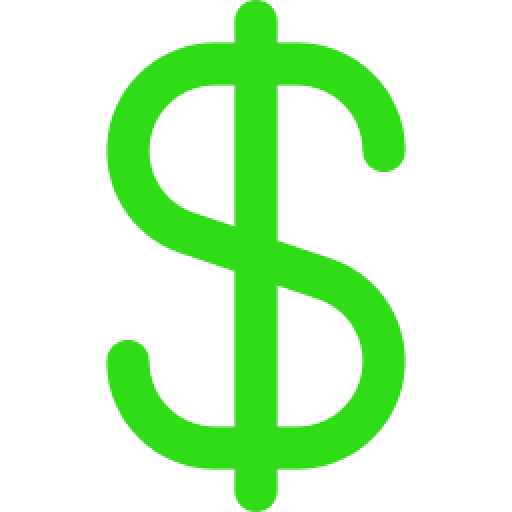
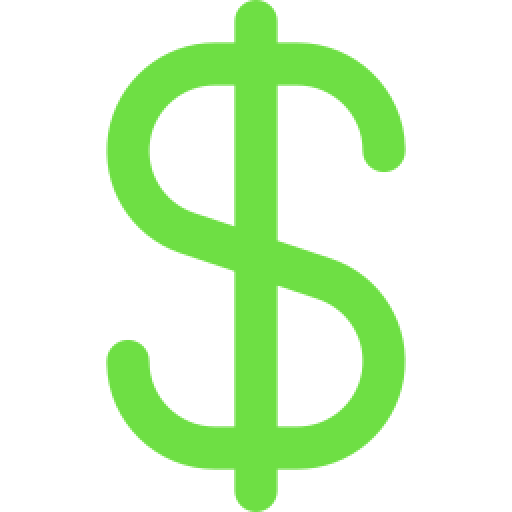
Agrego iconos, correcciones y nav fixed

Changed region(s): [[0.1875, 0.0, 0.8125, 1.0]]

diff --git a/empresa.html b/empresa.html
@@ -5,8 +5,7 @@
     <meta http-equiv="X-UA-Compatible" content="IE=edge">
     <meta name="viewport" content="width=device-width, initial-scale=1.0">
     <link rel="preconnect" href="https://fonts.googleapis.com">
-    <link rel="preconnect" href="https://fonts.gstatic.com" crossorigin>
-    <link href="https://fonts.googleapis.com/css2?family=Catamaran:wght@100;300;500;700&display=swap" rel="stylesheet">
+    <link href="https://fonts.cdnfonts.com/css/christel-display?styles=138455" rel="stylesheet">
     <title>DETEK</title>
     <style>
         :root {
@@ -15,6 +14,7 @@
             --crema: #E5D9B6;
             --verde-claro: #5F8D4E;
             --verde-oscuro: #285430;
+            --font: Christel Display, sans-serif;
             --sm: 1.4rem;
             --md: 1.6rem;
             --lg: 1.8rem;
@@ -30,9 +30,12 @@
         body {
             background-color: var(--black);
         }
+        /* Navbar */
         .menu {
+            position: fixed;
             display: flex;
-            padding: 2rem;
+            width: 100%;
+            z-index: 2;
         }
         nav ul{
             display: flex;
@@ -40,8 +43,8 @@
             align-items: center;
             background-color: var(--black);
             width: 100%;
-            height: 3rem;
-            font-family: 'Catamaran', sans-serif;
+            height: 6rem;
+            font-family: var(--font);
             font-size: 2rem;
             letter-spacing: 6px;
             font-weight: bold;
@@ -62,8 +65,10 @@
         }
         .menu .navbar-menu a:hover {
             background-color: none;
-            color: var(--verde-claro);
+            color: var(--font);
         }
+
+        /* Portada */
         .portada {
             width: 100%;
             height: 80vh;
@@ -73,24 +78,34 @@
             height: 100%;
             object-fit: cover;
         }
-        .nuestra-empresa {
-            width: 100%;
-            padding: 5rem;
-        }
         .titulo-nuestra-empresa {
             display: flex;
             justify-content: center;
             align-items: center;
             width: 100%;
             height: 5rem;
-            font-family: 'Catamaran', sans-serif;
+            font-family: var(--font);
             font-size: 5rem;
             color: var(--white);
-            position: absolut;
-            top: 25%;
-            transform: translateY(400%);
+            position: absolute;
+            top: 50%;
             left: 0;
             padding: 0 50px;
+        }
+
+        /* Contenido */
+        .nuestra-empresa {
+            width: 100%;
+            padding: 3rem;
+            align-items: center;
+            display: flex;
+            flex-direction: column;
+        }
+        .elegirnos {
+            display: flex;
+            justify-content: center;
+            align-items: center;
+            margin: 50px;
         }
         .title {
             display: flex;
@@ -100,15 +115,50 @@
             height: 10rem;
             font-size: var(--lg);
             color: var(--verde-claro);
-            font-family: 'Catamaran', sans-serif;
+            font-family: var(--font);
+        }
+        .subtitle {
+            display: flex;
+            justify-content: center;
+            text-align: center;
+            align-items: center;
+            width: 100%;
+            height: 10rem;
+            font-size: var(--md);
+            color: var(--white);
+            font-family: var(--font);
         }
         .texto {
             color: var(--crema);
             font-size: var(--md);
-            font-family: 'Catamaran', sans-serif; 
+            font-family: var(--font);
+                                                
             width: 100%;
             margin-top: 2rem;
         }
+        div .iconos {
+            display: flex;
+            width: 600px;
+            justify-content: center;
+            align-items: center;
+        }
+        .iconos {
+            display: flex;
+            flex-direction: column;
+            justify-content: center;
+            text-align: center;
+            margin-top: 10px;
+            padding: 5px;
+        }
+        .iconos img {
+            width: 30px;
+            height: 30px;
+            display: flex;
+            justify-content: center;
+            align-items: center;
+        }
+
+        /* Footer */
         .redes {
             width: 187px;
             display: grid;
@@ -140,15 +190,7 @@
         ul li img{
             border-radius: 50%;
         }
-        .iconos {
-            display: flex;
-            flex-direction: column;
-            justify-content: center;
-        }
-        .iconos img {
-            width: 20px;
-            height: 20px;
-        }
+        /* 6EDF44 codigo de color de los iconos */
         footer {
             border-top: 1px solid rgb(100, 98, 98);
         }
@@ -156,6 +198,7 @@
 </head>
 <body>
     <header>
+    <div class="contenedor-navbar">
     <nav class="menu">
         <ul>
             <li class="navbar-menu"><a href="/">HOME</a></li>
@@ -164,26 +207,32 @@
             <li class="navbar-menu"><a href="/">CONTACTO</a></li>
         </ul>
     </nav>
+    </div>
     </header>
+
     <section>
-        <p class="titulo-nuestra-empresa">Nuestra empresa</p>
-        <div class="imagen-portada">
+    <h1 class="titulo-nuestra-empresa">Nuestra empresa</h1>
+    <div class="imagen-portada">
         <figure class="portada">
             <img class="foto-cartel" src="https://img.pccomponentes.com/pcblog/98/que-es-placa-base.jpg" alt="imagen de un cartel luminoso">
         </figure>
-        </div>
-
+    </div>
+    </section>
+    <section class="elegirnos">
         <div class="nuestra-empresa">
             <h3 class="title"> Somos una empresa dedicada a la fabricación de productos electrónicos en serie y a medida.</h3>
-            
+
+            <p class="subtitle">Nuestro trabajo esta orientado a empresas que desean mejorar e innovar en la comunicación visual con sus clientes,  empleados y  público.</p>
+
             <div class="iconos experiencia"> 
-                <img src="" alt="experiencia">
-            <p class="parrafo1 texto">En Detek realizamos desarrollo y producción de equipos electrónicos. Utilizando las herramientas mas avanzadas de diseño desarrollamos desde cero productos electrónicos; cubriendo inclusive las áreas de mecánica, paneles, software, gráfica y embalaje.</p>
+                <img src="./iconos/check.png" alt="experiencia">
+            <p class="parrafo1 texto">Excelente calidad. Utilizamos las herramientas más avanzadas de diseño y desarrollamos desde cero nuestros productos.</p>
             </div>
 
-            <div class="iconos calidad">
-                <img src="" alt="calidad">
-            <p class="parrafo2 texto">De esta manera conseguimos los mejores resultados para incluir electrónica a medida en equipos industriales, agrícolas y comerciales.</p>
+
+            <div class="iconos tamaño">
+                <img src="./iconos/arrow-up-right-and-arrow-down-left-from-center.png" alt="tamaños">
+            <p class="parrafo2 texto">Posibilidad de realizar diseños a la medida de sus necesidades.</p>
             </div>
 
             <div class="iconos profesionalidad">
@@ -193,8 +242,13 @@
 
             <div class="iconos costos">
             <img src="./iconos/dollar.png" alt="costos">
-            <p class="parrafo4 texto"> Competimos con los precios de otras empresas </p>
+            <p class="parrafo4 texto"> Competimos con los precios de otras empresas. </p>
             </div>
+
+            <div class="iconos soporte">
+                <img src="./iconos/headphones.png" alt="soporte">
+                <p class="parrafo4 texto">Ofrecemos nuestro soporte contando con nuestro amplio staff de profesionales que se encuentran a su disposición.</p>
+                </div>
         </div>
     </section>
     <footer>

diff --git a/index.html b/index.html
@@ -6,7 +6,7 @@
     <meta name="viewport" content="width=device-width, initial-scale=1.0">
     <link rel="preconnect" href="https://fonts.googleapis.com">
     <link rel="preconnect" href="https://fonts.gstatic.com" crossorigin>
-    <link href="https://fonts.googleapis.com/css2?family=Catamaran:wght@100;300;500;700&display=swap" rel="stylesheet">
+    <link href="https://fonts.cdnfonts.com/css/christel-display?styles=138455" rel="stylesheet">
     <title>DETEK</title>
     <style>
         :root {
@@ -15,6 +15,7 @@
             --crema: #E5D9B6;
             --verde-claro: #5F8D4E;
             --verde-oscuro: #285430;
+            --font: Christel Display, sans-serif;
             --sm: 1.4rem;
             --md: 1.6rem;
             --lg: 1.8rem;
@@ -46,7 +47,7 @@
             align-items: center;
             width: 100%;
             height: 5rem;
-            font-family: 'Catamaran', sans-serif;
+            font-family: var(--font);
             font-size: 5rem;
             letter-spacing: 3px;
             color: var(--crema);
@@ -56,8 +57,10 @@
             padding: 0 50px;
         }
         .menu {
+            position: fixed;
             display: flex;
-            padding: 2rem;
+            width: 100%;
+            z-index: 2;
         }
         nav ul{
             display: flex;
@@ -65,8 +68,8 @@
             align-items: center;
             background-color: var(--black);
             width: 100%;
-            height: 3rem;
-            font-family: 'Catamaran', sans-serif;
+            height: 6rem;
+            font-family: var(--font);
             font-size: 2rem;
             letter-spacing: 6px;
             font-weight: bold;
@@ -104,7 +107,7 @@
             align-items: center;
             width: 100%;
             height: 2rem;
-            font-family: 'Catamaran', sans-serif;
+            font-family: var(--font);
             font-size: 1.6rem;
             color: var(--white);
             position: absolute;
@@ -114,14 +117,14 @@
 
         }
         h2 {
-            font-family: 'Catamaran', sans-serif;
+            font-family: var(--font);
             font-size: 2rem;
             color: var(--white);
         }
         .subtitulo {
             display: flex;
             justify-content: center;
-            font-family: 'Catamaran', sans-serif;
+            font-family: var(--font);
             font-size: 1.5rem;
             color: var(--verde-claro);
         }

diff --git a/Contact.html b/Contact.html
@@ -5,8 +5,7 @@
     <meta http-equiv="X-UA-Compatible" content="IE=edge">
     <meta name="viewport" content="width=device-width, initial-scale=1.0">
     <link rel="preconnect" href="https://fonts.googleapis.com">
-    <link rel="preconnect" href="https://fonts.gstatic.com" crossorigin>
-    <link href="https://fonts.googleapis.com/css2?family=Hanken+Grotesk:ital,wght@0,300;0,900;1,500&family=Permanent+Marker&display=swap" rel="stylesheet">
+    <link href="https://fonts.cdnfonts.com/css/christel-display?styles=138455" rel="stylesheet">
     <title>Document</title>
     <style>
         :root {
